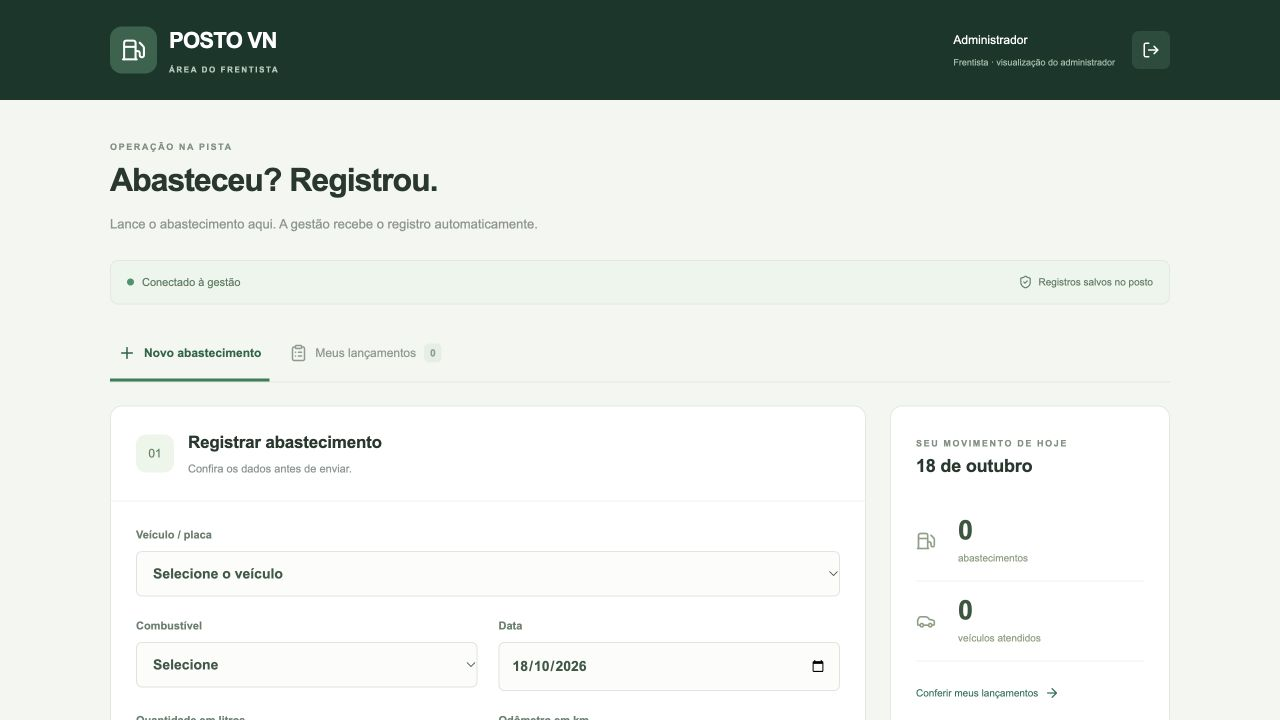
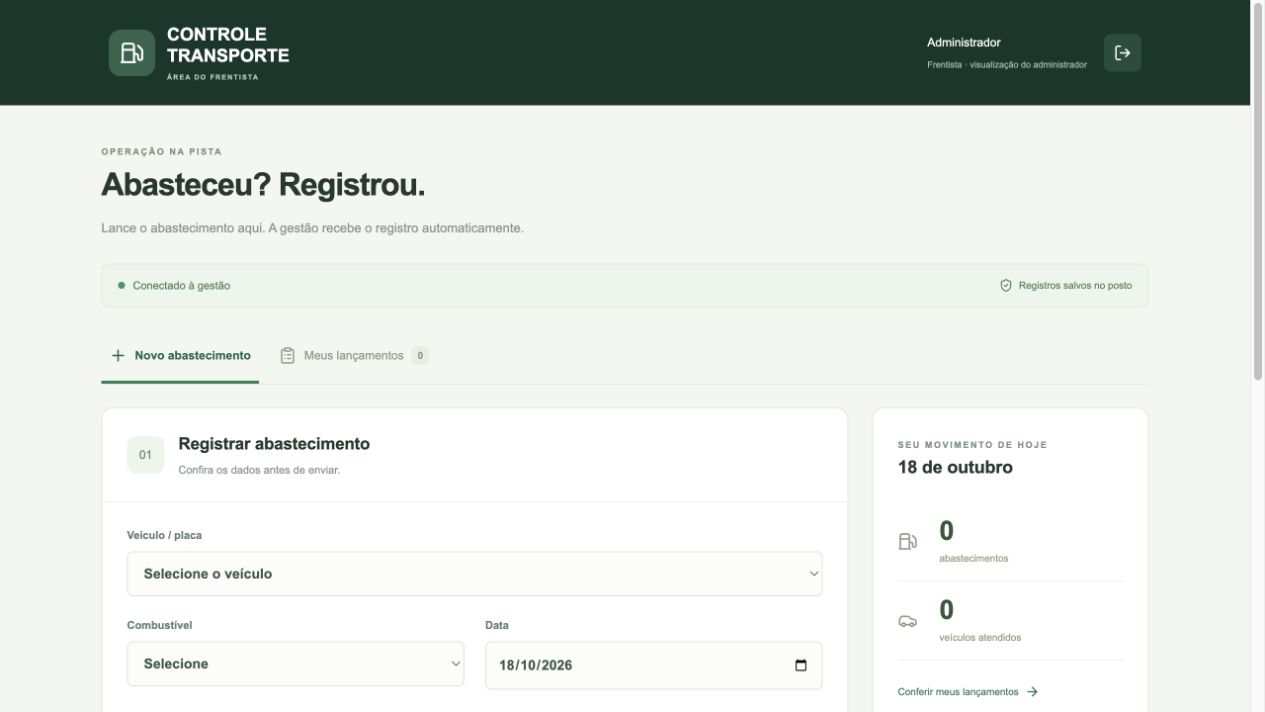
Atualiza identidade para CONTROLE TRANSPORTE nas duas áreas e documentação

diff --git a/app/dashboard.tsx b/app/dashboard.tsx
@@ -22,16 +22,16 @@ export default function Dashboard(){
  function go(p:string){setPage(p);setSearch('');setMobile(false)}
  function open(kind:string,row?:Row){setError('');setForm(row?{...row,price:row.priceCents/100}:{date:today(),role:'attendant',start:today(),end:today().slice(0,4)+'-12-31'});setModal({kind,id:row?.id})}
  async function save(e:React.FormEvent){e.preventDefault();setBusy(true);setError('');try{const r=await fetch('/api/data',{method:'POST',headers:{'Content-Type':'application/json'},body:JSON.stringify({...modal,values:form})});const j=await r.json() as Row;if(!r.ok)throw new Error(j.error);setModal(null);await load();setToast('Registro salvo com sucesso.')}catch(e:any){setError(e.message)}finally{setBusy(false)}}
- function csv(){const escape=(x:any)=>'"'+String(x??'').replace(/"/g,'""')+'"';const header=['Data','Instituição','Placa','Veículo','Motorista','Combustível','Litros','Preço por litro (R$)','Total (R$)','Odômetro','Frentista'];const values=filtered.map(x=>[x.date,x.institution,x.plate,x.vehicle,x.driver,x.fuel,String(x.liters).replace('.',','),(x.priceCents/100).toFixed(2).replace('.',','),(x.totalCents/100).toFixed(2).replace('.',','),x.km,x.attendant]);values.push(['TOTAL','','','','','','','',(filtered.reduce((a,b)=>a+b.totalCents,0)/100).toFixed(2).replace('.',','),'','']);const url=URL.createObjectURL(new Blob(['\uFEFF'+[header,...values].map(r=>r.map(escape).join(';')).join('\r\n')],{type:'text/csv;charset=utf-8'}));const a=document.createElement('a');a.href=url;a.download=`posto-vn-fechamento-${month}.csv`;a.click();URL.revokeObjectURL(url)}
+ function csv(){const escape=(x:any)=>'"'+String(x??'').replace(/"/g,'""')+'"';const header=['Data','Instituição','Placa','Veículo','Motorista','Combustível','Litros','Preço por litro (R$)','Total (R$)','Odômetro','Frentista'];const values=filtered.map(x=>[x.date,x.institution,x.plate,x.vehicle,x.driver,x.fuel,String(x.liters).replace('.',','),(x.priceCents/100).toFixed(2).replace('.',','),(x.totalCents/100).toFixed(2).replace('.',','),x.km,x.attendant]);values.push(['TOTAL','','','','','','','',(filtered.reduce((a,b)=>a+b.totalCents,0)/100).toFixed(2).replace('.',','),'','']);const url=URL.createObjectURL(new Blob(['\uFEFF'+[header,...values].map(r=>r.map(escape).join(';')).join('\r\n')],{type:'text/csv;charset=utf-8'}));const a=document.createElement('a');a.href=url;a.download=`controle-transporte-fechamento-${month}.csv`;a.click();URL.revokeObjectURL(url)}
  const input=(key:string,label:string,type='text',required=true)=><label>{label}<input type={type} required={required} value={form[key]??''} onChange={e=>setForm({...form,[key]:e.target.value})} {...(type==='number'?{min:key==='km'?0:0.001,step:key==='km'?1:key==='price'?0.01:0.001}: {})} {...(key==='date'?{max:today()}: {})}/></label>;
  const select=(key:string,label:string,options:Row[],required=true)=><label>{label}<select required={required} value={form[key]||''} onChange={e=>setForm({...form,[key]:e.target.value,...(key==='institutionId'?{vehicleId:''}:{})})}><option value="">Selecione...</option>{options.map(x=><option key={x.id} value={x.id}>{x.plate?`${x.plate} · `:''}{x.name}</option>)}</select></label>;
  const table=(rs:Row[])=>rs.length?<div className="tablewrap"><table><thead><tr><th>Veículo / placa</th><th>Instituição</th><th>Data</th><th>Combustível</th><th>Litros</th><th>Valor total</th></tr></thead><tbody>{rs.map(x=><tr key={x.id}><td><strong className="plate">{x.plate}</strong><small>{x.vehicle}</small></td><td>{x.institution}<small>{x.driver||'Motorista não informado'}</small></td><td>{x.date.split('-').reverse().join('/')}<small>{x.attendant}</small></td><td><span className="tag">{x.fuel}</span></td><td>{num(x.liters)} L</td><td><strong>{money(x.totalCents)}</strong></td></tr>)}</tbody></table></div>:<div className="empty"><Fuel size={30}/><h3>Nenhum abastecimento neste período</h3><p>Os lançamentos aparecerão aqui, organizados por veículo e instituição.</p><button className="primary" onClick={()=>open('fill')}><Plus size={16}/> Lançar abastecimento</button></div>;
- return <div className="shell"><aside className={mobile?'sidebar show':'sidebar'}><a className="brand" href="/"><span className="brandmark"><Fuel size={25}/></span><span>POSTO <b>VN</b><small>GESTÃO DE ABASTECIMENTOS</small></span></a><div className="workspace"><span className="avatar">VN</span><div>Posto VN<small>Gestão da operação</small></div><span className="online"/></div><p className="navlabel">OPERAÇÃO</p><nav>{(admin?['overview','fill','institution','vehicle','person','contract']:['fill']).map(p=>{const I=icons[p];return <button key={p} className={page===p?'nav active':'nav'} onClick={()=>go(p)}><I size={19}/>{titles[p]}{p==='fill'&&<span className="navcount">{rows('fill').length}</span>}</button>})}</nav>{admin&&<><p className="navlabel">ADMINISTRAÇÃO</p><nav>{['report','fuel','member'].map(p=>{const I=icons[p];return <button key={p} className={page===p?'nav active':'nav'} onClick={()=>go(p)}><I size={19}/>{titles[p]}</button>})}</nav></>}<div className="sidebottom"><div className="secure"><ShieldCheck size={18}/><span>Acesso protegido<small>{admin?'Área administrativa':'Área do frentista'}</small></span></div><div className="profile"><span className="avatar">{admin?'AD':'FR'}</span><span>{user?.name||'Bem-vindo'}<small>{admin?'Administrador':user?'Frentista':'Entre para continuar'}</small></span><a href="/signout-with-chatgpt?return_to=/" target="_top" aria-label="Sair"><LogOut size={17}/></a></div></div></aside><div className="content"><header className="topbar"><div><button className="mobilebutton" aria-label="Abrir menu" onClick={()=>setMobile(!mobile)}><Menu size={22}/></button><span className="crumb">Meu posto</span><ChevronRight size={14}/><strong>{titles[page]}</strong></div><span className="environment"><i/> {user?(syncError?'Atualização interrompida':'Atualização automática · '+lastSync):'Sistema do posto'}</span></header><main><div className="pageheading"><div><div className="eyebrow">{page==='overview'?'SEU POSTO, EM DIA':admin?'GESTÃO DO POSTO':'ÁREA DO FRENTISTA'}</div><h1>{titles[page]}</h1><p>{page==='overview'?'Acompanhe sua operação e tenha o controle de cada abastecimento.':page==='report'?'Todos os veículos, valores e instituições em um só fechamento.':page==='fill'?'Registre e acompanhe os abastecimentos da frota.':'Organize as informações da sua operação.'}</p></div><button className="primary" onClick={()=>open(['overview','report'].includes(page)?'fill':page)}><Plus size={18}/>{['overview','fill','report'].includes(page)?'Novo abastecimento':`Cadastrar ${singular[page]}`}</button></div>
+ return <div className="shell"><aside className={mobile?'sidebar show':'sidebar'}><a className="brand" href="/"><span className="brandmark"><Fuel size={25}/></span><span>CONTROLE <b>TRANSPORTE</b><small>GESTÃO DE ABASTECIMENTOS</small></span></a><div className="workspace"><span className="avatar">CT</span><div>CONTROLE TRANSPORTE<small>Gestão da operação</small></div><span className="online"/></div><p className="navlabel">OPERAÇÃO</p><nav>{(admin?['overview','fill','institution','vehicle','person','contract']:['fill']).map(p=>{const I=icons[p];return <button key={p} className={page===p?'nav active':'nav'} onClick={()=>go(p)}><I size={19}/>{titles[p]}{p==='fill'&&<span className="navcount">{rows('fill').length}</span>}</button>})}</nav>{admin&&<><p className="navlabel">ADMINISTRAÇÃO</p><nav>{['report','fuel','member'].map(p=>{const I=icons[p];return <button key={p} className={page===p?'nav active':'nav'} onClick={()=>go(p)}><I size={19}/>{titles[p]}</button>})}</nav></>}<div className="sidebottom"><div className="secure"><ShieldCheck size={18}/><span>Acesso protegido<small>{admin?'Área administrativa':'Área do frentista'}</small></span></div><div className="profile"><span className="avatar">{admin?'AD':'FR'}</span><span>{user?.name||'Bem-vindo'}<small>{admin?'Administrador':user?'Frentista':'Entre para continuar'}</small></span><a href="/signout-with-chatgpt?return_to=/" target="_top" aria-label="Sair"><LogOut size={17}/></a></div></div></aside><div className="content"><header className="topbar"><div><button className="mobilebutton" aria-label="Abrir menu" onClick={()=>setMobile(!mobile)}><Menu size={22}/></button><span className="crumb">Minha operação</span><ChevronRight size={14}/><strong>{titles[page]}</strong></div><span className="environment"><i/> {user?(syncError?'Atualização interrompida':'Atualização automática · '+lastSync):'Sistema do posto'}</span></header><main><div className="pageheading"><div><div className="eyebrow">{page==='overview'?'SEU TRANSPORTE, EM DIA':admin?'GESTÃO DE TRANSPORTE':'ÁREA DO FRENTISTA'}</div><h1>{titles[page]}</h1><p>{page==='overview'?'Acompanhe sua operação e tenha o controle de cada abastecimento.':page==='report'?'Todos os veículos, valores e instituições em um só fechamento.':page==='fill'?'Registre e acompanhe os abastecimentos da frota.':'Organize as informações da sua operação.'}</p></div><button className="primary" onClick={()=>open(['overview','report'].includes(page)?'fill':page)}><Plus size={18}/>{['overview','fill','report'].includes(page)?'Novo abastecimento':`Cadastrar ${singular[page]}`}</button></div>
  {user&&<div className="syncstrip"><span>{syncError||'Conectado à área dos frentistas · novos lançamentos aparecem automaticamente em até 5 segundos.'}</span><a href="/frentista">Abrir área do frentista <ArrowUpRight size={14}/></a></div>}{!user&&<div className="notice"><ShieldCheck size={22}/><div><strong>{loading?'Preparando sua área de trabalho…':'Entre para acessar os dados do posto'}</strong><p>{error||'Seus cadastros e lançamentos ficam protegidos e sincronizados.'}</p></div>{!loading&&<a className="primary" href="/signin-with-chatgpt?return_to=/" target="_top">Entrar com ChatGPT <ArrowUpRight size={16}/></a>}</div>}
  {['overview','fill','report'].includes(page)&&<><div className="filters"><div><span className="filterlabel">Período</span><input aria-label="Mês do relatório" type="month" value={month} onChange={e=>setMonth(e.target.value)}/><select aria-label="Filtrar instituição" value={institution} onChange={e=>setInstitution(e.target.value)}><option value="">Todas as instituições</option>{inst.map(x=><option value={x.id} key={x.id}>{x.name}</option>)}</select></div><span className="muted">{admin?'Faturamento mensal':'Seus lançamentos'}</span></div><div className="stats">{[{label:'Valor total no mês',value:money(total),icon:FileText,sub:'A faturar por instituição',accent:true},{label:'Abastecimentos',value:String(fills.length).padStart(2,'0'),icon:Fuel,sub:'Lançamentos no período'},{label:'Volume abastecido',value:num(liters)+' L',icon:ClipboardList,sub:'Combustíveis registrados'},{label:'Veículos atendidos',value:String(new Set(fills.map(x=>x.plate)).size).padStart(2,'0'),icon:Car,sub:`Em ${groups.length} instituições`}].map(s=><div className={s.accent?'stat accent':'stat'} key={s.label}><div><span>{s.label}</span><s.icon size={19}/></div><strong>{s.value}</strong><small>{s.sub}</small></div>)}</div></>}
  {page==='overview'&&<><div className="middle"><section className="panel chartpanel"><div className="panelhead"><div><h2>Abastecimentos no mês</h2><p>Volume diário registrado em litros</p></div><span className="legend"><i/> Litros</span></div><div className="chart"><div className="axis"><span>{num(Math.max(100,...Array.from({length:31},(_,j)=>fills.filter(x=>Number(x.date.slice(-2))===j+1).reduce((a,b)=>a+b.liters,0))))}</span><span>Litros</span><span>0</span></div><div className="bars">{Array.from({length:31},(_,i)=>{const v=fills.filter(x=>Number(x.date.slice(-2))===i+1).reduce((a,b)=>a+b.liters,0);const max=Math.max(1,...Array.from({length:31},(_,j)=>fills.filter(x=>Number(x.date.slice(-2))===j+1).reduce((a,b)=>a+b.liters,0)));return <div className="barcol" key={i} title={`Dia ${i+1}: ${num(v)} L`}><div className="bar" style={{height:v?`${Math.max(3,v/max*100)}%`:'2px',opacity:v?1:0.15}}/><small>{[0,4,9,14,19,24,30].includes(i)?String(i+1).padStart(2,'0'):''}</small></div>})}</div>{!fills.length&&<div className="chartempty">Seu movimento começa no primeiro lançamento.</div>}</div></section><section className="panel institutions"><div className="panelhead"><div><h2>Por instituição</h2><p>Distribuição do faturamento</p></div><Building2 size={19}/></div>{groups.length?groups.slice(0,4).map((g,i)=><div className="instrow" key={g.id}><span className="insticon">{String(i+1).padStart(2,'0')}</span><div><strong>{g.name}</strong><small>{g.cars} veículos · {g.count} abastecimentos</small><div className="meter"><i style={{width:`${g.total/total*100}%`}}/></div></div><b>{money(g.total)}</b></div>):<div className="miniempty"><Building2 size={28}/><p>O total de cada instituição<br/>aparecerá aqui.</p><button className="textbutton" onClick={()=>open('institution')}>Cadastrar instituição <ChevronRight size={14}/></button></div>}<button className="panelbottom" onClick={()=>go('report')}>Ver fechamento mensal <ArrowUpRight size={16}/></button></section></div><section className="panel"><div className="panelhead"><div><h2>Últimos abastecimentos</h2><p>Os registros mais recentes do período selecionado</p></div><button className="textbutton" onClick={()=>go('fill')}>Ver todos <ArrowUpRight size={16}/></button></div>{table(fills.slice(0,5))}</section></>}
  {page==='fill'&&<section className="panel"><div className="panelhead"><div><h2>Registros de abastecimento</h2><p>{filtered.length} lançamentos encontrados</p></div><div className="search"><Search size={17}/><input placeholder="Buscar placa ou instituição" value={search} onChange={e=>setSearch(e.target.value)}/></div></div>{table(filtered)}</section>}
  {page==='report'&&<><section className="reportbanner"><span className="reporticon"><FileText size={28}/></span><div><h2>Fechamento de {new Date(month+'-02T12:00:00').toLocaleDateString('pt-BR',{month:'long',year:'numeric'})}</h2><p>Confira os totais por instituição e exporte a relação completa de veículos.</p></div><button className="secondary" onClick={csv} disabled={!fills.length}><Download size={17}/> Exportar planilha</button><button className="secondary" onClick={()=>window.print()}>Imprimir / PDF</button></section><section className="panel"><div className="panelhead"><div><h2>Resumo por instituição</h2><p>Valores calculados com os preços de cada abastecimento</p></div></div>{groups.length?<div className="tablewrap"><table><thead><tr><th>Instituição</th><th>Veículos</th><th>Abastecimentos</th><th>Volume</th><th>Total a faturar</th></tr></thead><tbody>{groups.map(g=><tr key={g.id}><td><strong>{g.name}</strong></td><td>{g.cars}</td><td>{g.count}</td><td>{num(g.liters)} L</td><td><strong>{money(g.total)}</strong></td></tr>)}</tbody><tfoot><tr><td colSpan={4}>Total do período</td><td>{money(total)}</td></tr></tfoot></table></div>:<div className="empty"><FileText size={30}/><h3>Ainda não há valores para fechar</h3><p>Selecione um mês com abastecimentos registrados.</p></div>}</section><section className="panel reportdetail"><div className="panelhead"><h2>Relação de veículos e abastecimentos</h2></div>{table(fills)}</section></>}
  {!['overview','fill','report'].includes(page)&&<section className="panel"><div className="panelhead"><div><h2>{titles[page]}</h2><p>{rows(page).length} registros cadastrados</p></div></div>{page==='member'&&<div className="inlineinfo">O cadastro define a permissão dentro do sistema. O acesso ao site também precisa ser liberado na hospedagem. O site inicia privado para o proprietário.</div>}{page==='fuel'&&<div className="inlineinfo">Novos preços se aplicam aos próximos lançamentos. O histórico mantém o valor original.</div>}{rows(page).length?<div className="recordgrid">{rows(page).map(x=><div className="record" key={x.id}><span className="recordicon">{(()=>{const I=icons[page];return <I size={23}/>})()}</span><div><h3>{x.plate||x.name}</h3>{x.plate&&<p>{x.name}</p>}<p>{page==='fuel'?money(x.priceCents)+' / litro':page==='member'?x.email:x.document||inst.find(i=>i.id===x.institutionId)?.name||x.contact||'Cadastro ativo'}</p>{page==='member'&&<span className="tag">{x.role==='admin'?'Administrador':'Frentista'}</span>}{page==='contract'&&<small>Vigência: {x.start} a {x.end}{x.vehicleId&&' · '+vehicles.find(v=>v.id===x.vehicleId)?.plate}</small>}</div>{x.id!=='owner'&&<button className="textbutton" onClick={()=>open(page,x)}>Editar <ChevronRight size={14}/></button>}</div>)}</div>:<div className="empty"><Plus size={30}/><h3>Comece com seu primeiro cadastro</h3><p>{page==='vehicle'?'Cadastre uma instituição antes de vincular seus veículos.':`Adicione ${titles[page].toLowerCase()} para organizar a operação.`}</p><button className="primary" onClick={()=>open(page)}>Cadastrar {singular[page]}</button></div>}</section>}
- <footer><span>POSTO VN <b>·</b> Controle que acompanha sua operação.</span><span><ShieldCheck size={14}/> Dados protegidos por perfil de acesso</span></footer></main></div>{toast&&<div className="toast" role="status"><CheckCircle2 size={20}/>{toast}</div>}{modal&&<div className="overlay" onClick={()=>!busy&&setModal(null)}><section className="modal" role="dialog" aria-modal="true" aria-label={`Cadastrar ${singular[modal.kind]}`} onClick={e=>e.stopPropagation()}><div className="modalhead"><div><span className="eyebrow">POSTO VN</span><h2>{modal.id?'Editar':'Cadastrar'} {singular[modal.kind]}</h2></div><button aria-label="Fechar" className="iconbutton" onClick={()=>setModal(null)}><X size={22}/></button></div><form onSubmit={save}><div className="formgrid">{modal.kind==='fill'?<>{select('vehicleId','Veículo / placa',vehicles)}{select('fuelId','Combustível',fuels)}{input('date','Data do abastecimento','date')}{input('liters','Quantidade (litros)','number')}{input('km','Odômetro (km)','number')}{input('driver','Nome do motorista','text',false)}<div className="formsummary"><span>{inst.find(x=>x.id===vehicles.find(v=>v.id===form.vehicleId)?.institutionId)?.name||'Instituição vinculada ao veículo'}</span><strong>{money(Math.round(Number(form.liters||0)*(fuels.find(f=>f.id===form.fuelId)?.priceCents||0)))}</strong></div>{input('note','Observação','text',false)}<p className="formhint">O preço é definido pela administração. O valor total será calculado ao salvar.</p></>:<>{input('name',modal.kind==='vehicle'?'Modelo / descrição do veículo':'Nome')}{['institution','person'].includes(modal.kind)&&<>{input('document','CPF / CNPJ','text',false)}{input('contact','Contato','text',false)}</>}{modal.kind==='vehicle'&&<>{input('plate','Placa')}{select('institutionId','Instituição',inst)}</>}{modal.kind==='fuel'&&input('price','Preço por litro (R$)','number')}{modal.kind==='member'&&<>{input('email','E-mail de acesso','email')}<label>Perfil de acesso<select value={form.role} onChange={e=>setForm({...form,role:e.target.value})}><option value="attendant">Frentista — somente lançamentos</option><option value="admin">Administrador — acesso completo</option></select></label></>}{modal.kind==='contract'&&<>{select('institutionId','Instituição',inst)}{select('personId','Pessoa responsável (opcional)',rows('person'),false)}{select('vehicleId','Veículo (opcional)',vehicles.filter(x=>x.institutionId===form.institutionId),false)}{input('start','Início da vigência','date')}{input('end','Fim da vigência','date')}{input('note','Condições / observações','text',false)}</>}</> }</div>{error&&<p role="alert" className="formerror">{error}</p>}<div className="modalactions"><button type="button" className="secondary" onClick={()=>setModal(null)}>Cancelar</button><button className="primary" disabled={busy||!user}>{busy?'Salvando…':'Salvar '+singular[modal.kind]}</button></div>{!user&&<p className="formerror">Entre na sua conta antes de cadastrar.</p>}</form></section></div>}</div>
+ <footer><span>CONTROLE TRANSPORTE <b>·</b> Controle que acompanha sua operação.</span><span><ShieldCheck size={14}/> Dados protegidos por perfil de acesso</span></footer></main></div>{toast&&<div className="toast" role="status"><CheckCircle2 size={20}/>{toast}</div>}{modal&&<div className="overlay" onClick={()=>!busy&&setModal(null)}><section className="modal" role="dialog" aria-modal="true" aria-label={`Cadastrar ${singular[modal.kind]}`} onClick={e=>e.stopPropagation()}><div className="modalhead"><div><span className="eyebrow">CONTROLE TRANSPORTE</span><h2>{modal.id?'Editar':'Cadastrar'} {singular[modal.kind]}</h2></div><button aria-label="Fechar" className="iconbutton" onClick={()=>setModal(null)}><X size={22}/></button></div><form onSubmit={save}><div className="formgrid">{modal.kind==='fill'?<>{select('vehicleId','Veículo / placa',vehicles)}{select('fuelId','Combustível',fuels)}{input('date','Data do abastecimento','date')}{input('liters','Quantidade (litros)','number')}{input('km','Odômetro (km)','number')}{input('driver','Nome do motorista','text',false)}<div className="formsummary"><span>{inst.find(x=>x.id===vehicles.find(v=>v.id===form.vehicleId)?.institutionId)?.name||'Instituição vinculada ao veículo'}</span><strong>{money(Math.round(Number(form.liters||0)*(fuels.find(f=>f.id===form.fuelId)?.priceCents||0)))}</strong></div>{input('note','Observação','text',false)}<p className="formhint">O preço é definido pela administração. O valor total será calculado ao salvar.</p></>:<>{input('name',modal.kind==='vehicle'?'Modelo / descrição do veículo':'Nome')}{['institution','person'].includes(modal.kind)&&<>{input('document','CPF / CNPJ','text',false)}{input('contact','Contato','text',false)}</>}{modal.kind==='vehicle'&&<>{input('plate','Placa')}{select('institutionId','Instituição',inst)}</>}{modal.kind==='fuel'&&input('price','Preço por litro (R$)','number')}{modal.kind==='member'&&<>{input('email','E-mail de acesso','email')}<label>Perfil de acesso<select value={form.role} onChange={e=>setForm({...form,role:e.target.value})}><option value="attendant">Frentista — somente lançamentos</option><option value="admin">Administrador — acesso completo</option></select></label></>}{modal.kind==='contract'&&<>{select('institutionId','Instituição',inst)}{select('personId','Pessoa responsável (opcional)',rows('person'),false)}{select('vehicleId','Veículo (opcional)',vehicles.filter(x=>x.institutionId===form.institutionId),false)}{input('start','Início da vigência','date')}{input('end','Fim da vigência','date')}{input('note','Condições / observações','text',false)}</>}</> }</div>{error&&<p role="alert" className="formerror">{error}</p>}<div className="modalactions"><button type="button" className="secondary" onClick={()=>setModal(null)}>Cancelar</button><button className="primary" disabled={busy||!user}>{busy?'Salvando…':'Salvar '+singular[modal.kind]}</button></div>{!user&&<p className="formerror">Entre na sua conta antes de cadastrar.</p>}</form></section></div>}</div>
 }

diff --git a/app/frentista/attendant.tsx b/app/frentista/attendant.tsx
@@ -19,12 +19,12 @@ export default function Attendant(){
  const total=Math.round(Number(form.liters||0)*(fuel?.priceCents||0));
  function field(key:keyof ReturnType<typeof fresh>,value:string){setForm(f=>({...f,[key]:value}));setError('')}
  async function save(e:React.FormEvent){e.preventDefault();if(locked.current)return;locked.current=true;setSaving(true);setError('');try{const res=await fetch('/api/data',{method:'POST',headers:{'Content-Type':'application/json'},body:JSON.stringify({kind:'fill',values:form})});const json=await res.json() as Row;if(!res.ok)throw new Error(json.error);setReceipt({plate:json.record.plate,institution:json.record.institution,total:json.record.totalCents,liters:json.record.liters});setForm(fresh());await load();}catch(e:any){setError(e.message||'Não foi possível confirmar o envio. Confira Meus lançamentos antes de tentar novamente.')}finally{setSaving(false);locked.current=false}}
- return <div className="attendant"><header className="attop"><a href="/frentista" className="attbrand"><span><Fuel size={25}/></span><b>POSTO VN<small>ÁREA DO FRENTISTA</small></b></a><div className="attidentity">{user&&<><span>{user.name}<small>Frentista{user.role==='admin'?' · visualização do administrador':''}</small></span><a href="/signout-with-chatgpt?return_to=/frentista" target="_top" aria-label="Sair da área do frentista"><LogOut size={18}/></a></>}</div></header><div className="attbody"><div className="attintro"><span className="eyebrow">OPERAÇÃO NA PISTA</span><h1>Abasteceu? Registrou.</h1><p>Lance o abastecimento aqui. A gestão recebe o registro automaticamente.</p></div>
+ return <div className="attendant"><header className="attop"><a href="/frentista" className="attbrand"><span><Fuel size={25}/></span><b>CONTROLE <span className="attbrandline">TRANSPORTE</span><small>ÁREA DO FRENTISTA</small></b></a><div className="attidentity">{user&&<><span>{user.name}<small>Frentista{user.role==='admin'?' · visualização do administrador':''}</small></span><a href="/signout-with-chatgpt?return_to=/frentista" target="_top" aria-label="Sair da área do frentista"><LogOut size={18}/></a></>}</div></header><div className="attbody"><div className="attintro"><span className="eyebrow">OPERAÇÃO NA PISTA</span><h1>Abasteceu? Registrou.</h1><p>Lance o abastecimento aqui. A gestão recebe o registro automaticamente.</p></div>
  {loading&&!user?<section className="attcard attlogin"><RefreshCw size={27}/><h2>Conectando ao posto…</h2></section>:!user?<section className="attcard attlogin"><ShieldCheck size={34}/><h2>Entre com sua conta de frentista</h2><p>{connection||'Use o e-mail que o administrador cadastrou para você.'}</p><a className="primary" href="/signin-with-chatgpt?return_to=/frentista" target="_top">Entrar com ChatGPT <ArrowRight size={17}/></a><small>Seu acesso precisa ser liberado pelo administrador do posto.</small></section>:<>
  <div className={connection?'attconnection failed':'attconnection'}>{connection?<><WifiOff size={15}/><span>{connection} Os dados exibidos podem estar desatualizados.</span><button onClick={()=>void load()}>Tentar novamente</button></>:<><span className="attdot"/> Conectado à gestão <span className="attconnectionright"><ShieldCheck size={14}/> Registros salvos no posto</span></>}</div>
  <div className="attnav"><button className={view==='new'?'selected':''} onClick={()=>setView('new')}><Plus size={18}/> Novo abastecimento</button><button className={view==='history'?'selected':''} onClick={()=>setView('history')}><ClipboardList size={18}/> Meus lançamentos <b>{recent.length}</b></button></div>
  {view==='new'?<div className="attcolumns"><section className="attcard"><div className="attcardheading"><span className="attstep">01</span><div><h2>Registrar abastecimento</h2><p>Confira os dados antes de enviar.</p></div></div>{receipt&&<div className="attreceipt" role="status"><CheckCircle2 size={25}/><div><strong>Abastecimento enviado à gestão!</strong><p>{receipt.plate} · {receipt.institution}<br/>{number(Number(receipt.liters))} L · {money(receipt.total)}</p></div><button type="button" aria-label="Fechar confirmação" onClick={()=>setReceipt(null)}>×</button></div>}
  <form onSubmit={save} className="attform"><fieldset disabled={saving}><div className="formgrid"><label className="fullfield">Veículo / placa<select required value={form.vehicleId} onChange={e=>field('vehicleId',e.target.value)}><option value="">Selecione o veículo</option>{vehicles.map(x=><option key={x.id} value={x.id}>{x.plate} · {x.name}</option>)}</select></label>{vehicle&&<div className="attinstitution"><Building2 size={17}/><span>Instituição<strong>{institution?.name||'Sem instituição vinculada'}</strong></span></div>}<label>Combustível<select required value={form.fuelId} onChange={e=>field('fuelId',e.target.value)}><option value="">Selecione</option>{fuels.map(x=><option value={x.id} key={x.id}>{x.name}</option>)}</select></label><label>Data<input type="date" required max={today()} value={form.date} onChange={e=>field('date',e.target.value)}/></label><label>Quantidade em litros<input type="number" inputMode="decimal" step="0.001" min="0.001" max="10000" placeholder="0,000" required value={form.liters} onChange={e=>field('liters',e.target.value)}/></label><label>Odômetro em km<input type="number" inputMode="numeric" step="1" min="0" max="9999999" placeholder="Ex.: 42500" required value={form.km} onChange={e=>field('km',e.target.value)}/></label><label>Motorista <span className="optional">opcional</span><input maxLength={200} value={form.driver} onChange={e=>field('driver',e.target.value)} placeholder="Nome do motorista"/></label><label>Observação <span className="optional">opcional</span><input maxLength={200} value={form.note} onChange={e=>field('note',e.target.value)} placeholder="Detalhes do abastecimento"/></label></div><div className="atttotal"><div><small>VALOR DO ABASTECIMENTO</small><strong>{money(total)}</strong></div><span>{fuel?`${money(fuel.priceCents)} / litro`:'Preço definido pela gestão'}</span></div>{error&&<p className="formerror" role="alert">{error}</p>}{(!vehicles.length||!fuels.length)&&<p className="attsetup">A administração precisa cadastrar os veículos e os combustíveis antes do primeiro lançamento.</p>}<button className="primary attsubmit" disabled={saving||!vehicles.length||!fuels.length}>{saving?<><RefreshCw size={19}/> Enviando…</>:<><CheckCircle2 size={19}/> Salvar e enviar à gestão</>}</button><p className="attfootnote">O lançamento só é confirmado depois de salvo. É necessário estar conectado à internet.</p></fieldset></form></section><aside className="attaside"><section className="attcard attday"><span className="eyebrow">SEU MOVIMENTO DE HOJE</span><h2>{new Date(today()+'T12:00:00').toLocaleDateString('pt-BR',{day:'numeric',month:'long'})}</h2><div><Fuel size={20}/><strong>{day.length}</strong><span>abastecimentos</span></div><div><Car size={20}/><strong>{new Set(day.map(x=>x.plate)).size}</strong><span>veículos atendidos</span></div><button className="textbutton" onClick={()=>setView('history')}>Conferir meus lançamentos <ArrowRight size={15}/></button></section><section className="atthelp"><ShieldCheck size={22}/><h3>Você lança. A gestão acompanha.</h3><p>Seus registros entram no mesmo sistema do administrador, com a instituição, o veículo e o preço do abastecimento.</p><p>Cadastros, preços e relatórios ficam sob responsabilidade da administração.</p></section></aside></div>:<section className="attcard"><div className="attcardheading"><span className="attstep"><ClipboardList size={20}/></span><div><h2>Meus lançamentos</h2><p>Somente os abastecimentos registrados pela sua conta.</p></div></div><div className="atthistoryfilter"><input aria-label="Buscar meus lançamentos" placeholder="Buscar placa ou instituição" value={query} onChange={e=>setQuery(e.target.value)}/><button className="secondary" onClick={()=>void load()}><RefreshCw size={15}/> Atualizar</button></div>{filtered.length?<div className="attrecords">{filtered.map(x=><article key={x.id}><span className="attcar"><Car size={22}/></span><div><strong className="plate">{x.plate}</strong><p>{x.institution}</p><small>{x.date.split('-').reverse().join('/')} · {x.fuel} · {number(x.liters)} L · {number(x.km)} km</small></div><strong>{money(x.totalCents)}<small><CheckCircle2 size={12}/> Enviado</small></strong></article>)}</div>:<div className="empty"><ClipboardList size={30}/><h3>{query?'Nenhum resultado encontrado':'Seus lançamentos aparecerão aqui'}</h3><p>Ao salvar um abastecimento, você poderá conferir a confirmação nesta lista.</p></div>}</section>}
  {user.role==='admin'&&<a className="attback" href="/">Voltar ao painel administrativo <ArrowRight size={14}/></a>}</>}
- <footer><span>POSTO VN · Área do frentista</span><span><ShieldCheck size={14}/> Acesso individual e protegido</span></footer></div></div>
+ <footer><span>CONTROLE TRANSPORTE · Área do frentista</span><span><ShieldCheck size={14}/> Acesso individual e protegido</span></footer></div></div>
 }

diff --git a/app/globals.css b/app/globals.css
@@ -4,3 +4,6 @@
 @media print{.sidebar,.topbar,.pageheading>button,.filters,.reportbanner button,footer,.overlay,.toast,.notice{display:none!important}.content{margin:0;width:100%}main{padding:0}.stats{grid-template-columns:repeat(4,1fr)}.panel{break-inside:auto;margin:15px 0}.stat{background:white!important;color:black!important}.stat.accent>div,.stat.accent small{color:#555}.reportbanner{background:white}table{font-size:9px}th,td{padding:10px}.pageheading{margin-bottom:15px}}
 .sidebar{overflow-y:auto}.sidebar>.brand,.sidebar>.workspace,.sidebar>.navlabel,.sidebar>nav,.sidebottom{flex-shrink:0}
 .syncstrip{display:flex;justify-content:space-between;align-items:center;gap:15px;font-size:10px;color:#789381;padding:0 0 20px;line-height:1.5}.syncstrip a{display:flex;gap:5px;align-items:center;color:var(--green);white-space:nowrap}.attendant{min-height:100vh;background:#f3f6f2}.attop{background:#12372b;padding:24px max(24px,calc((100vw - 1060px)/2));display:flex;align-items:center;justify-content:space-between;gap:20px;color:#fff}.attbrand{display:flex;align-items:center;gap:12px}.attbrand>span{background:#2f644d;padding:11px;border-radius:12px}.attbrand b{font-size:22px;letter-spacing:-.7px}.attbrand small{display:block;font-size:8px;letter-spacing:1.6px;color:#b4ccb9;margin-top:7px}.attidentity{display:flex;align-items:center;gap:17px;font-size:12px}.attidentity small{display:block;color:#a2bea9;font-size:9px;margin-top:7px}.attidentity a{padding:10px;background:#244d3c;border-radius:7px}.attbody{max-width:1108px;padding:35px 24px;margin:auto}.attintro{margin-bottom:25px}.attintro h1{font-size:32px}.attintro p{font-size:13px}.attconnection{display:flex;align-items:center;gap:8px;border:1px solid #dfeadf;background:#edf5ec;color:#577c60;padding:13px 16px;font-size:11px;border-radius:8px;margin-bottom:25px}.attdot{width:7px;height:7px;background:#319468;border-radius:50%}.attconnectionright{margin-left:auto;display:flex;gap:6px;align-items:center;font-size:10px}.attconnection.failed{background:#fff4e6;border-color:#edddc6;color:#9b6c2d}.attconnection button{background:none;border:0;color:inherit;text-decoration:underline;white-space:nowrap}.attnav{display:flex;gap:12px;margin-bottom:23px;border-bottom:1px solid #dfe8de}.attnav button{display:flex;gap:8px;align-items:center;padding:14px 8px 16px;background:none;border:0;border-bottom:3px solid transparent;font-size:12px;color:#8b9d8e}.attnav button.selected{color:#196644;border-bottom-color:#227e54;font-weight:600}.attnav b{border-radius:5px;background:#e6eee4;padding:2px 6px;font-size:10px}.attcolumns{display:grid;grid-template-columns:minmax(0,1fr) 280px;gap:24px;align-items:start}.attcard{background:#fff;border:1px solid #e1e9df;border-radius:12px;overflow:hidden}.attcardheading{padding:23px 25px;display:flex;align-items:center;gap:14px;border-bottom:1px solid #edf1ea}.attcardheading h2{font-size:17px}.attcardheading p{font-size:11px;margin-top:5px}.attstep{background:#edf5e9;color:#56865f;width:38px;height:38px;border-radius:10px;display:grid;place-items:center;font-size:12px}.attform{padding:25px}.attform fieldset{padding:0;margin:0;border:0;min-width:0}.attform .formgrid{gap:21px}.fullfield{grid-column:1/-1}.attform .formgrid input,.attform .formgrid select{font-size:14px;padding:13px 12px;background:#fcfdfb}.optional{font-size:9px;font-weight:400;color:#a6b0a3}.attinstitution{grid-column:1/-1;background:#f5f8f2;display:flex;gap:10px;padding:12px;border-radius:7px;align-items:center;color:#799570}.attinstitution span{font-size:9px}.attinstitution strong{display:block;font-size:12px;color:#54764e;margin-top:4px}.atttotal{display:flex;align-items:end;justify-content:space-between;gap:15px;padding:22px 0;border-top:1px solid #edf0e8;margin-top:25px}.atttotal small{font-size:8px;letter-spacing:1.3px;color:#8fa188}.atttotal strong{display:block;font-size:30px;font-weight:600;color:#215c3e;margin-top:9px;letter-spacing:-1px}.atttotal>span{font-size:11px;color:#8ea087;padding-bottom:5px}.attsubmit{width:100%;padding:16px;font-size:13px;border-radius:8px}.attfootnote{text-align:center;font-size:9px;margin-top:13px;line-height:1.7}.attsetup{font-size:11px;color:#95794a;background:#faf5e9;padding:12px;border-radius:6px;margin:0 0 15px}.attday{padding:25px}.attday h2{margin:0 0 22px;font-size:18px}.attday>div{display:grid;grid-template-columns:30px auto;column-gap:12px;align-items:center;padding:15px 0;border-bottom:1px solid #edf1e8;color:#8ca083}.attday>div svg{grid-row:1/3}.attday>div strong{font-size:27px;color:#33583b;line-height:1}.attday>div span{font-size:10px;margin-top:7px}.attday .textbutton{margin-top:20px}.atthelp{padding:24px 10px;color:#8fa184}.atthelp h3{color:#66835b;font-size:12px;margin-top:12px}.atthelp p{font-size:11px;margin-top:12px;color:#93a18c}.attreceipt{display:flex;gap:12px;align-items:start;margin:20px 25px 0;padding:17px;background:#eaf6e8;color:#4b8c4b;border:1px solid #cfebc9;border-radius:8px}.attreceipt strong{font-size:12px}.attreceipt p{font-size:11px;color:#72956b;margin-top:6px}.attreceipt button{margin-left:auto;background:none;border:0;color:#77996c;font-size:20px}.attlogin{max-width:550px;padding:45px 30px;text-align:center;margin:40px auto;color:#789b6b}.attlogin>svg{margin:0 auto 20px}.attlogin h2{font-size:20px}.attlogin p{margin:14px 0 25px;font-size:12px}.attlogin>small{display:block;color:#9da993;font-size:10px;margin-top:22px}.atthistoryfilter{display:flex;gap:10px;padding:20px 25px}.atthistoryfilter input{border:1px solid #dce6d8;padding:12px;border-radius:7px;flex:1;min-width:0;font-size:12px}.attrecords{padding:0 25px 20px}.attrecords article{display:flex;gap:14px;padding:20px 0;border-top:1px solid #e9eee4;align-items:center}.attcar{background:#f1f6eb;color:#7f9a6c;padding:12px;border-radius:10px}.attrecords article>div{flex:1}.attrecords p{font-size:11px;margin:5px 0}.attrecords small{font-size:9px;color:#91a083}.attrecords article>strong{font-size:14px;color:#456b39;text-align:right}.attrecords article>strong small{display:flex;gap:4px;align-items:center;justify-content:end;margin-top:7px;color:#7ba06a}.attback{display:flex;align-items:center;gap:6px;font-size:11px;color:#739366;margin-top:22px}.attbody footer{margin-top:35px}@media(max-width:800px){.attcolumns{grid-template-columns:1fr}.attaside{display:none}.attbody{padding:25px 17px}.attop{padding:18px}.attintro h1{font-size:28px}.attintro p{font-size:12px}.attidentity>span{max-width:120px;font-size:10px}.attidentity small{font-size:8px}.attbrand b{font-size:20px}.attconnectionright{display:none}.attform{padding:20px}.attform .formgrid{grid-template-columns:1fr 1fr;gap:16px}.attform .formgrid input,.attform .formgrid select{font-size:16px;min-width:0;width:100%}.attcardheading{padding:20px}.attreceipt{margin:17px 20px 0}.attnav button{font-size:11px}.attnav{gap:10px}.attintro{margin-bottom:20px}.syncstrip{align-items:start;flex-wrap:wrap}.atttotal strong{font-size:27px}.attrecords{padding:0 17px 15px}.attrecords article{gap:9px}.attcar{display:none}.atthistoryfilter{padding:17px}.attrecords small{font-size:8px}.attrecords article>strong{font-size:12px}}@media(max-width:380px){.attform .formgrid{grid-template-columns:1fr}.attbrand small{letter-spacing:1px;font-size:7px}.attbrand b{font-size:18px}.attidentity{gap:8px}.atttotal{flex-wrap:wrap}}
+
+/* Identidade CONTROLE TRANSPORTE */
+.brand{font-size:15px;letter-spacing:0;line-height:1.25}.brand b{display:block;font-size:16px}.brand small{font-size:6px;letter-spacing:1px}.attbrandline{display:block}.attbrand b{font-size:18px;line-height:1.2;letter-spacing:0}.attbrand small{font-size:7px;letter-spacing:1.2px}.attop{flex-wrap:wrap}@media(max-width:800px){.attbrand b{font-size:16px}.attbrand small{font-size:6px}.attidentity>span{max-width:85px;font-size:9px}.attidentity{gap:9px}.attbrand{gap:9px}.attbrand>span{padding:9px}}

diff --git a/app/layout.tsx b/app/layout.tsx
@@ -1,4 +1,4 @@
 import type { Metadata } from 'next';
 import './globals.css';
-export const metadata:Metadata={title:'Posto VN | Gestão de abastecimentos',description:'Abastecimentos, veículos e fechamento mensal por instituição.'};
+export const metadata:Metadata={title:'CONTROLE TRANSPORTE | Gestão de abastecimentos',description:'Abastecimentos, veículos e fechamento mensal por instituição.'};
 export default function Layout({children}:{children:React.ReactNode}){return <html lang="pt-BR"><body>{children}</body></html>}

diff --git a/docs/01-modelo-area-do-frentista.md b/docs/01-modelo-area-do-frentista.md
@@ -1,11 +1,11 @@
-# POSTO VN — MODELO DA ÁREA DO FRENTISTA
+# CONTROLE TRANSPORTE — MODELO DA ÁREA DO FRENTISTA
 ## Documento para desenvolvimento
 
 ### Objetivo
 Criar uma área exclusiva, acessada pelo navegador no celular, tablet ou computador, para o frentista registrar abastecimentos. Cada registro deve ser gravado no mesmo banco de dados utilizado pelo painel de gestão e aparecer automaticamente para o administrador.
 
 ### Identidade e endereço
-- Nome: Posto VN — Área do Frentista.
+- Nome: CONTROLE TRANSPORTE — Área do Frentista.
 - Identidade visual: verde escuro, branco e verde claro, seguindo o painel de gestão.
 - Priorizar facilidade de uso no celular, com campos legíveis e botões grandes.
 - Endereço sugerido após configuração do domínio: postovn.com.br/frentista. Esse endereço é uma proposta, ainda não conectado.
@@ -73,6 +73,6 @@ O frentista não pode acessar relatórios gerais, fechamento mensal, cadastros d
 - O formulário funciona corretamente no celular.
 
 ### Material existente e limites
-Já existe uma implementação com as duas áreas, banco compartilhado e atualização automática, publicada na plataforma Sites. Há código-fonte disponível no pacote posto-vn-codigo.zip. Na validação local, passaram 19 verificações de integração; isso não substitui a homologação do desenvolvedor no ambiente escolhido.
+Já existe uma implementação com as duas áreas, banco compartilhado e atualização automática, publicada na plataforma Sites. Há código-fonte disponível no pacote controle-transporte-codigo.zip. Na validação local, passaram 19 verificações de integração; isso não substitui a homologação do desenvolvedor no ambiente escolhido.
 
 O site está privado. A liberação dos funcionários depende de cadastro interno e autorização na hospedagem. O domínio postovn.com.br ainda não foi conectado. A migração para a plataforma Google foi solicitada pelo cliente, mas não foi executada; o desenvolvedor deverá definir o serviço adequado e adaptar hospedagem, autenticação e banco, caso essa escolha seja mantida.

diff --git a/docs/02-modelo-painel-de-gestao.md b/docs/02-modelo-painel-de-gestao.md
@@ -1,4 +1,4 @@
-# POSTO VN — MODELO DO PAINEL DE GESTÃO
+# CONTROLE TRANSPORTE — MODELO DO PAINEL DE GESTÃO
 ## Documento para desenvolvimento
 
 ### Objetivo
@@ -7,7 +7,7 @@ Criar um painel administrativo para controlar os abastecimentos lançados pelos 
 O fluxo principal é de faturamento mensal. Não incluir recebimento online, emissão de nota fiscal ou integração com bombas sem uma contratação específica desses recursos.
 
 ### Identidade e endereço
-- Nome: Posto VN — Gestão de Abastecimentos.
+- Nome: CONTROLE TRANSPORTE — Gestão de Abastecimentos.
 - Identidade visual: verde escuro, branco e verde claro.
 - Interface adaptada a computador, tablet e celular.
 - Endereço sugerido após configuração do domínio: postovn.com.br/gestao. Esse endereço é uma proposta, ainda não conectado.
@@ -99,6 +99,6 @@ As duas interfaces podem ter endereços separados, mas precisam utilizar um úni
 - Falha de rede não é apresentada como sincronização concluída.
 
 ### Material existente e limites
-O pacote posto-vn-codigo.zip contém o código atual de ambas as áreas. A implementação usa a plataforma Sites, aplicação Vinext e banco Cloudflare D1; não é um projeto Google já configurado. Foram concluídos compilação, verificação TypeScript e 19 testes de integração locais, além de inspeção visual da interface.
+O pacote controle-transporte-codigo.zip contém o código atual de ambas as áreas. A implementação usa a plataforma Sites, aplicação Vinext e banco Cloudflare D1; não é um projeto Google já configurado. Foram concluídos compilação, verificação TypeScript e 19 testes de integração locais, além de inspeção visual da interface.
 
 O site está privado e o domínio postovn.com.br ainda não está conectado. O cliente manifestou preferência por hospedagem Google; o desenvolvedor deverá confirmar a escolha, planejar a adaptação de aplicação, autenticação e banco, configurar o domínio e apresentar os custos antes de contratar serviços pagos. Hospedagem e liberação dos funcionários continuam sendo etapas de implantação.

diff --git a/docs/implementacao-atual.md b/docs/implementacao-atual.md
@@ -1,4 +1,4 @@
-# Posto VN — sistema de abastecimentos
+# CONTROLE TRANSPORTE — sistema de abastecimentos
 
 Primeira implementação validada localmente: instalação, TypeScript, compilação e 19 verificações de integração concluídas com sucesso. A interface de login, painel e fechamento mensal foi inspecionada no navegador. Dados de teste removidos do banco local. A publicação segue o fluxo Sites; domínio próprio e liberação de funcionários dependem de configuração posterior.
 

diff --git a/README.md b/README.md
@@ -1,6 +1,6 @@
-# Posto VN — sistema completo
+# CONTROLE TRANSPORTE — sistema completo
 
-Código e documentação das duas áreas do sistema de abastecimentos do Posto VN.
+Código e documentação das duas áreas do sistema de abastecimentos do CONTROLE TRANSPORTE.
 
 ## Conteúdo
 
